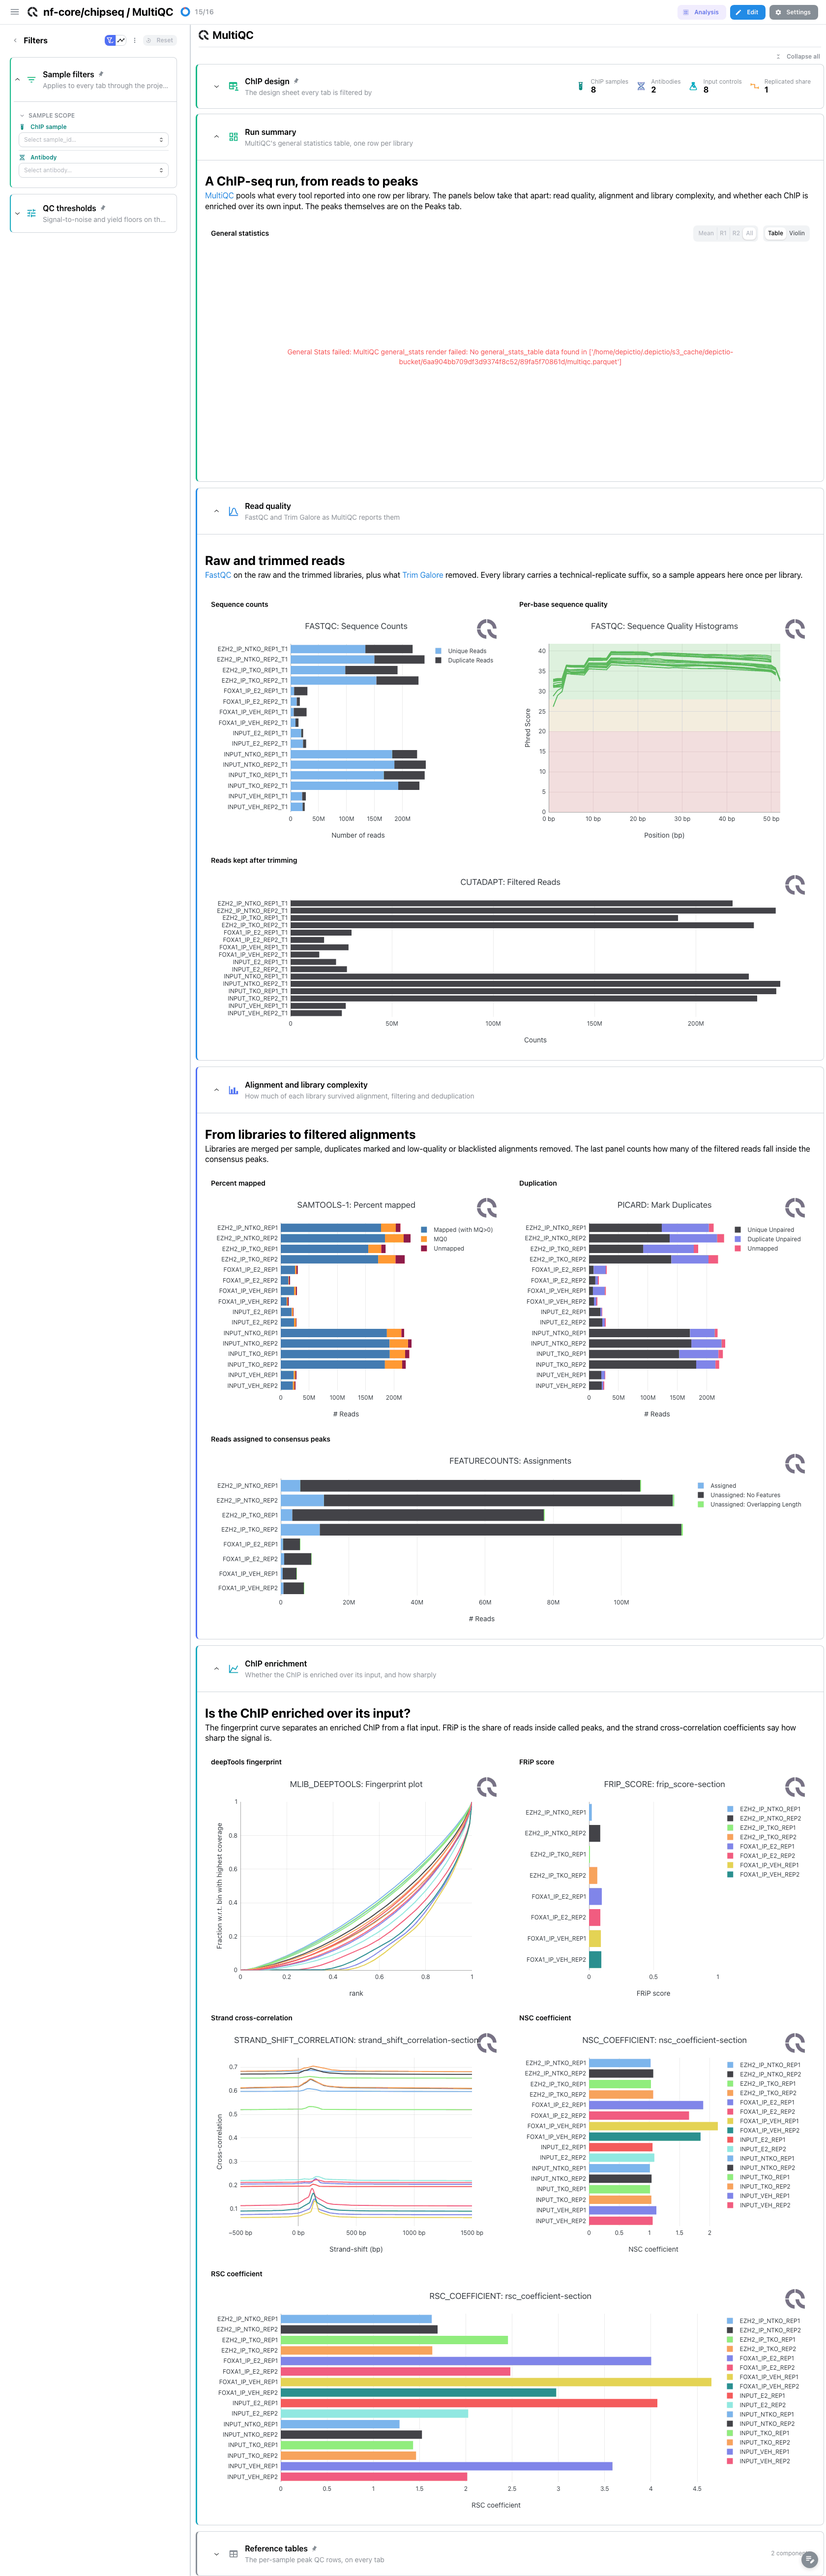
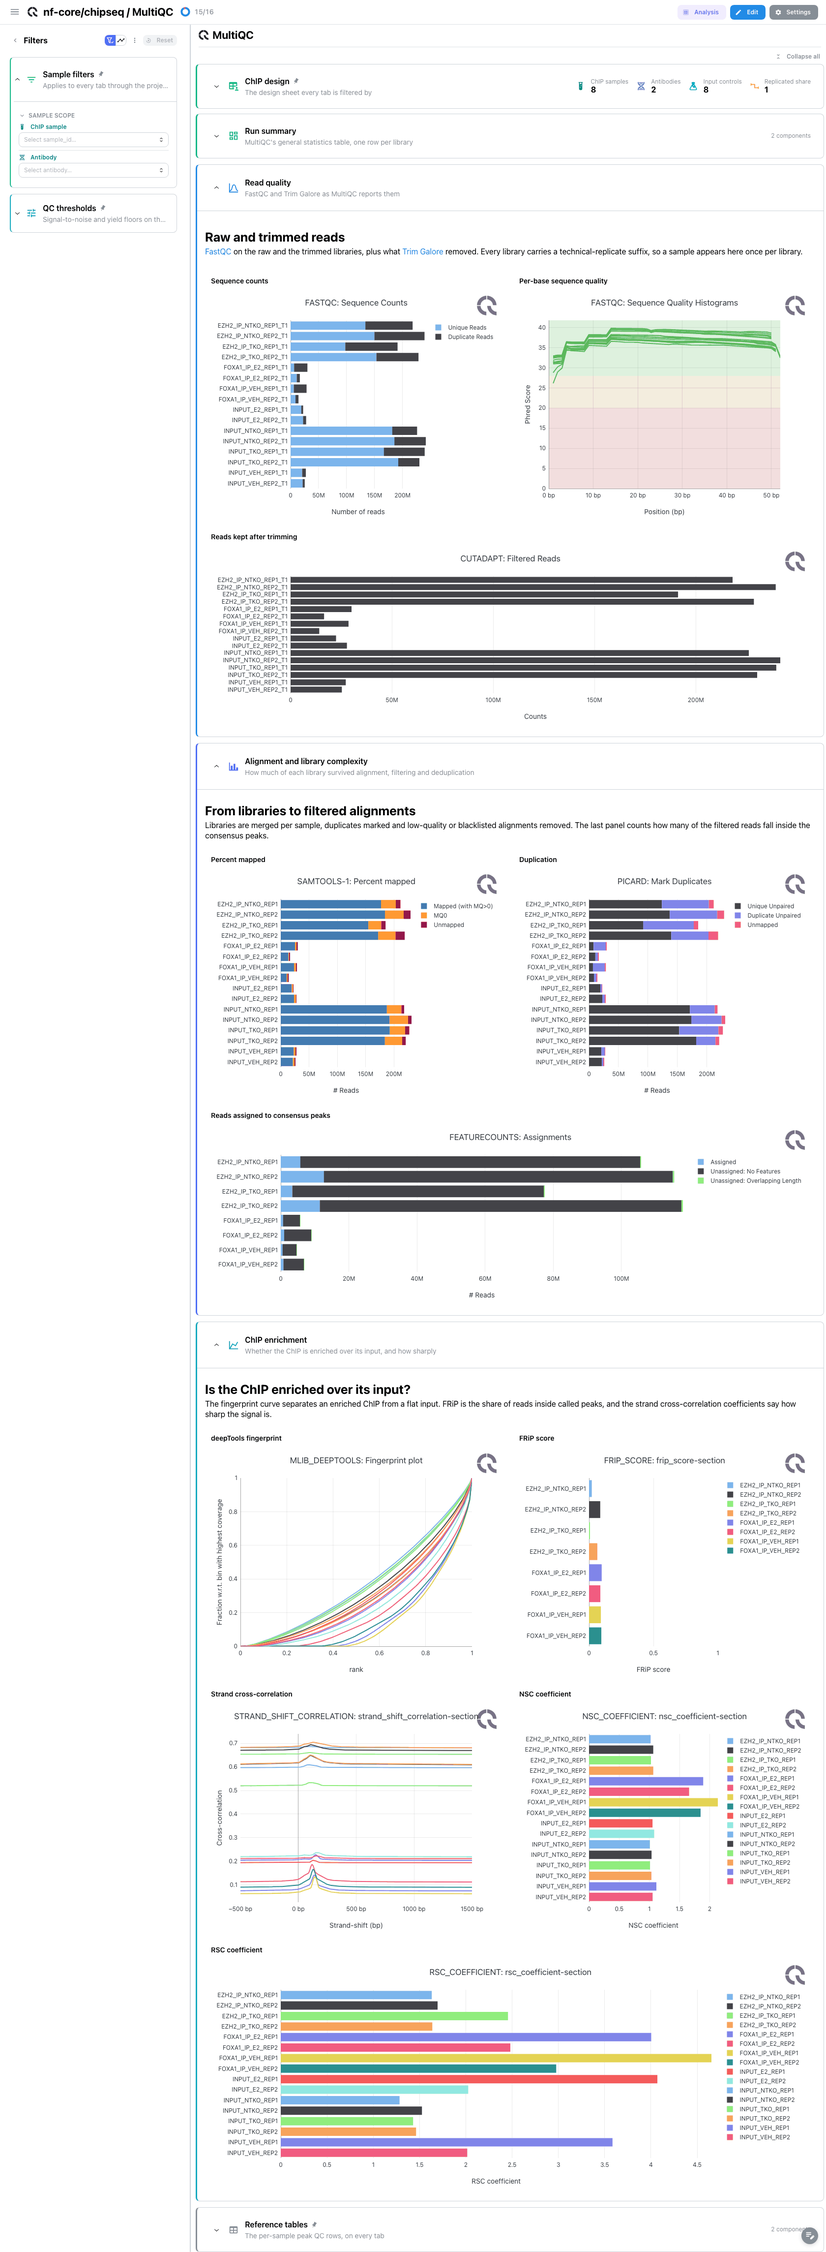
docs(chipseq): recapture MultiQC without the failing tile in view
The 2.1.0 reports carry no general_stats_table, so the General statistics
tile renders an error and it was the first thing the page showed. Capture
the tab with `Run summary` collapsed and say why in the note.

Claude-Session: https://claude.ai/code/session_01R1ahBf9RGZ23j8wxr2nXjn

diff --git a/docs/pipeline-templates/nf-core/chipseq.md b/docs/pipeline-templates/nf-core/chipseq.md
@@ -162,9 +162,11 @@ inputs, two replicates per condition.
         | Reference tables | *Peak QC summary* |
 
     !!! warning "The General statistics tile has no data on a 2.1.0 report"
-        The reports published by the 2.1.0 runs carry no `general_stats_table`, so
-        the tile of `Run summary` reports a render error, as the screenshot above
-        shows. Binding it is a template issue, not a broken run.
+        The reports published by the 2.1.0 runs carry no `general_stats_table`:
+        MultiQC assembles that table from the modules that ran, and this
+        pipeline's `multiqc_config` leaves it out. The tile of `Run summary`
+        therefore fails at render time, which is why the section is collapsed in
+        the screenshot above. Binding it is a template issue, not a broken run.
 
 === ":material-waves:{ .mc-cyan } Signal"
 
